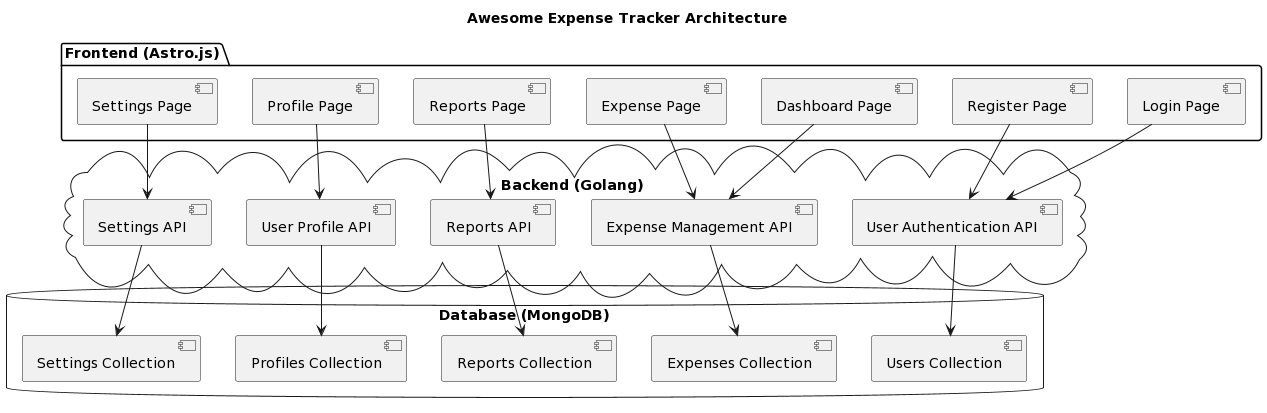
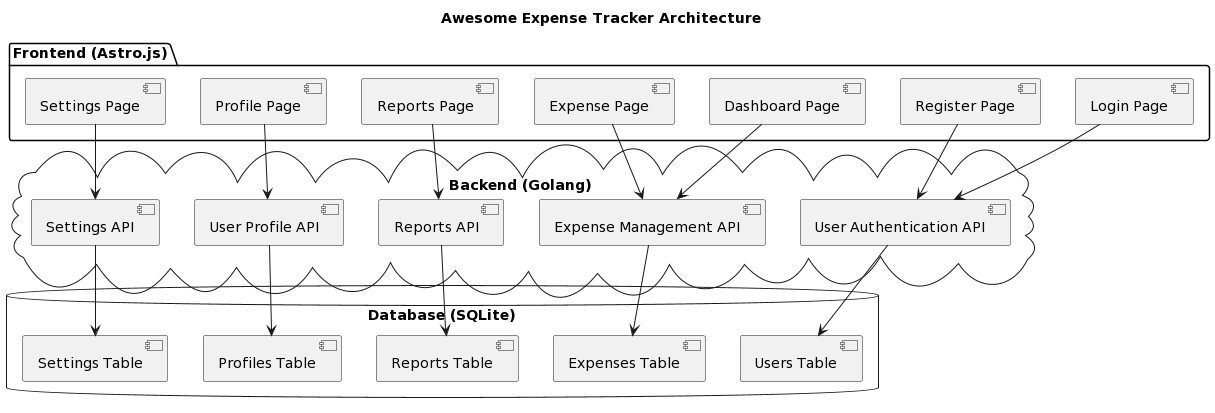
Update database from MongoDB to SQLite

diff --git a/README.md b/README.md
@@ -8,7 +8,7 @@ The Awesome Expense Tracker is a web application designed to make tracking perso
 
 - **Frontend**: Astro.js
 - **Backend**: Golang
-- **Database**: MongoDB
+- **Database**: SQLite
 
 ## Architecture Overview
 
@@ -42,12 +42,12 @@ A user-friendly dashboard that provides a quick overview of the user's financial
 
 ## Development Plan
 
-1. **Set up the development environment**: Install Astro.js, Golang, MongoDB, and any other necessary dependencies.
+1. **Set up the development environment**: Install Astro.js, Golang, SQLite, and any other necessary dependencies.
 
 2. **Design the application architecture**: Plan out the structure of your frontend and backend, and how they will interact with each other and the database.
 
 3. **Develop the backend APIs**: Use Golang to create RESTful APIs for handling user authentication, managing expenses, and generating reports.
 
-4. **Set up the MongoDB database**: Design the database schema and set up the necessary collections for storing user and expense data.
+4. **Set up the SQLite database**: Design the database schema and set up the necessary tables for storing user and expense data.
 
 5. **Develop the frontend**: Use Astro.js to create the user interface. This includes the login/register pages, the dashboard, the expense tracking page, and the reports page.
